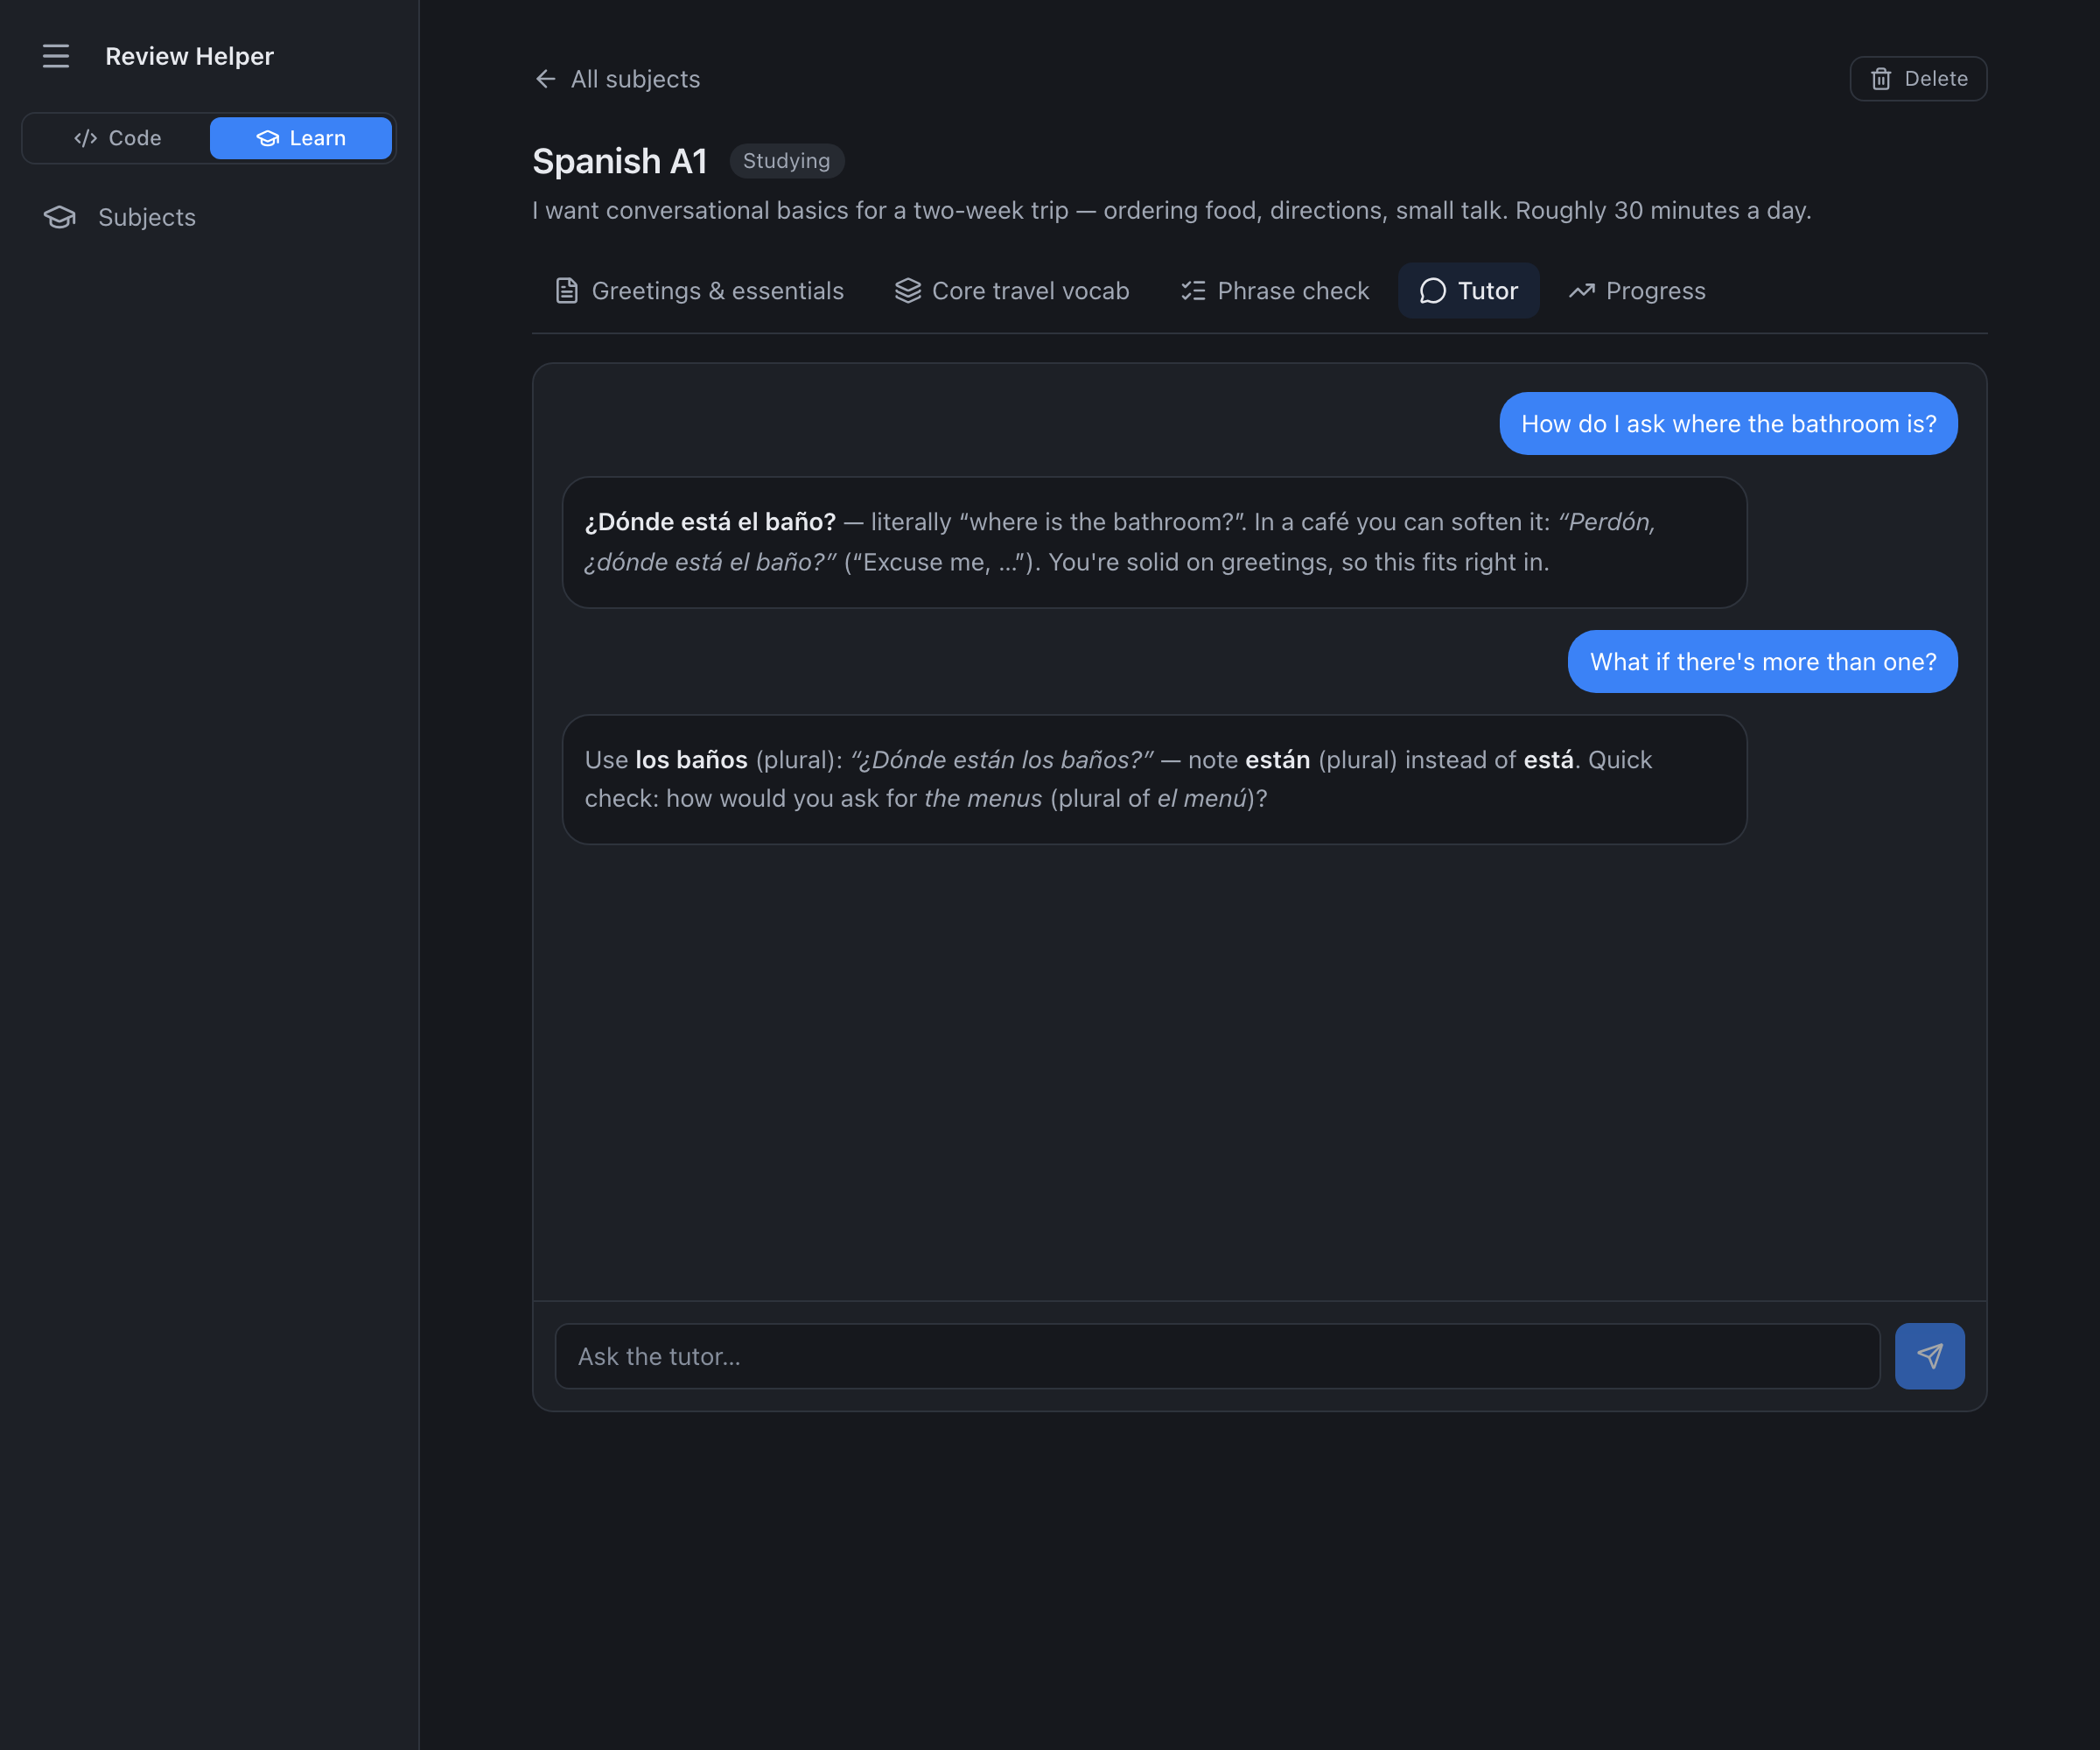
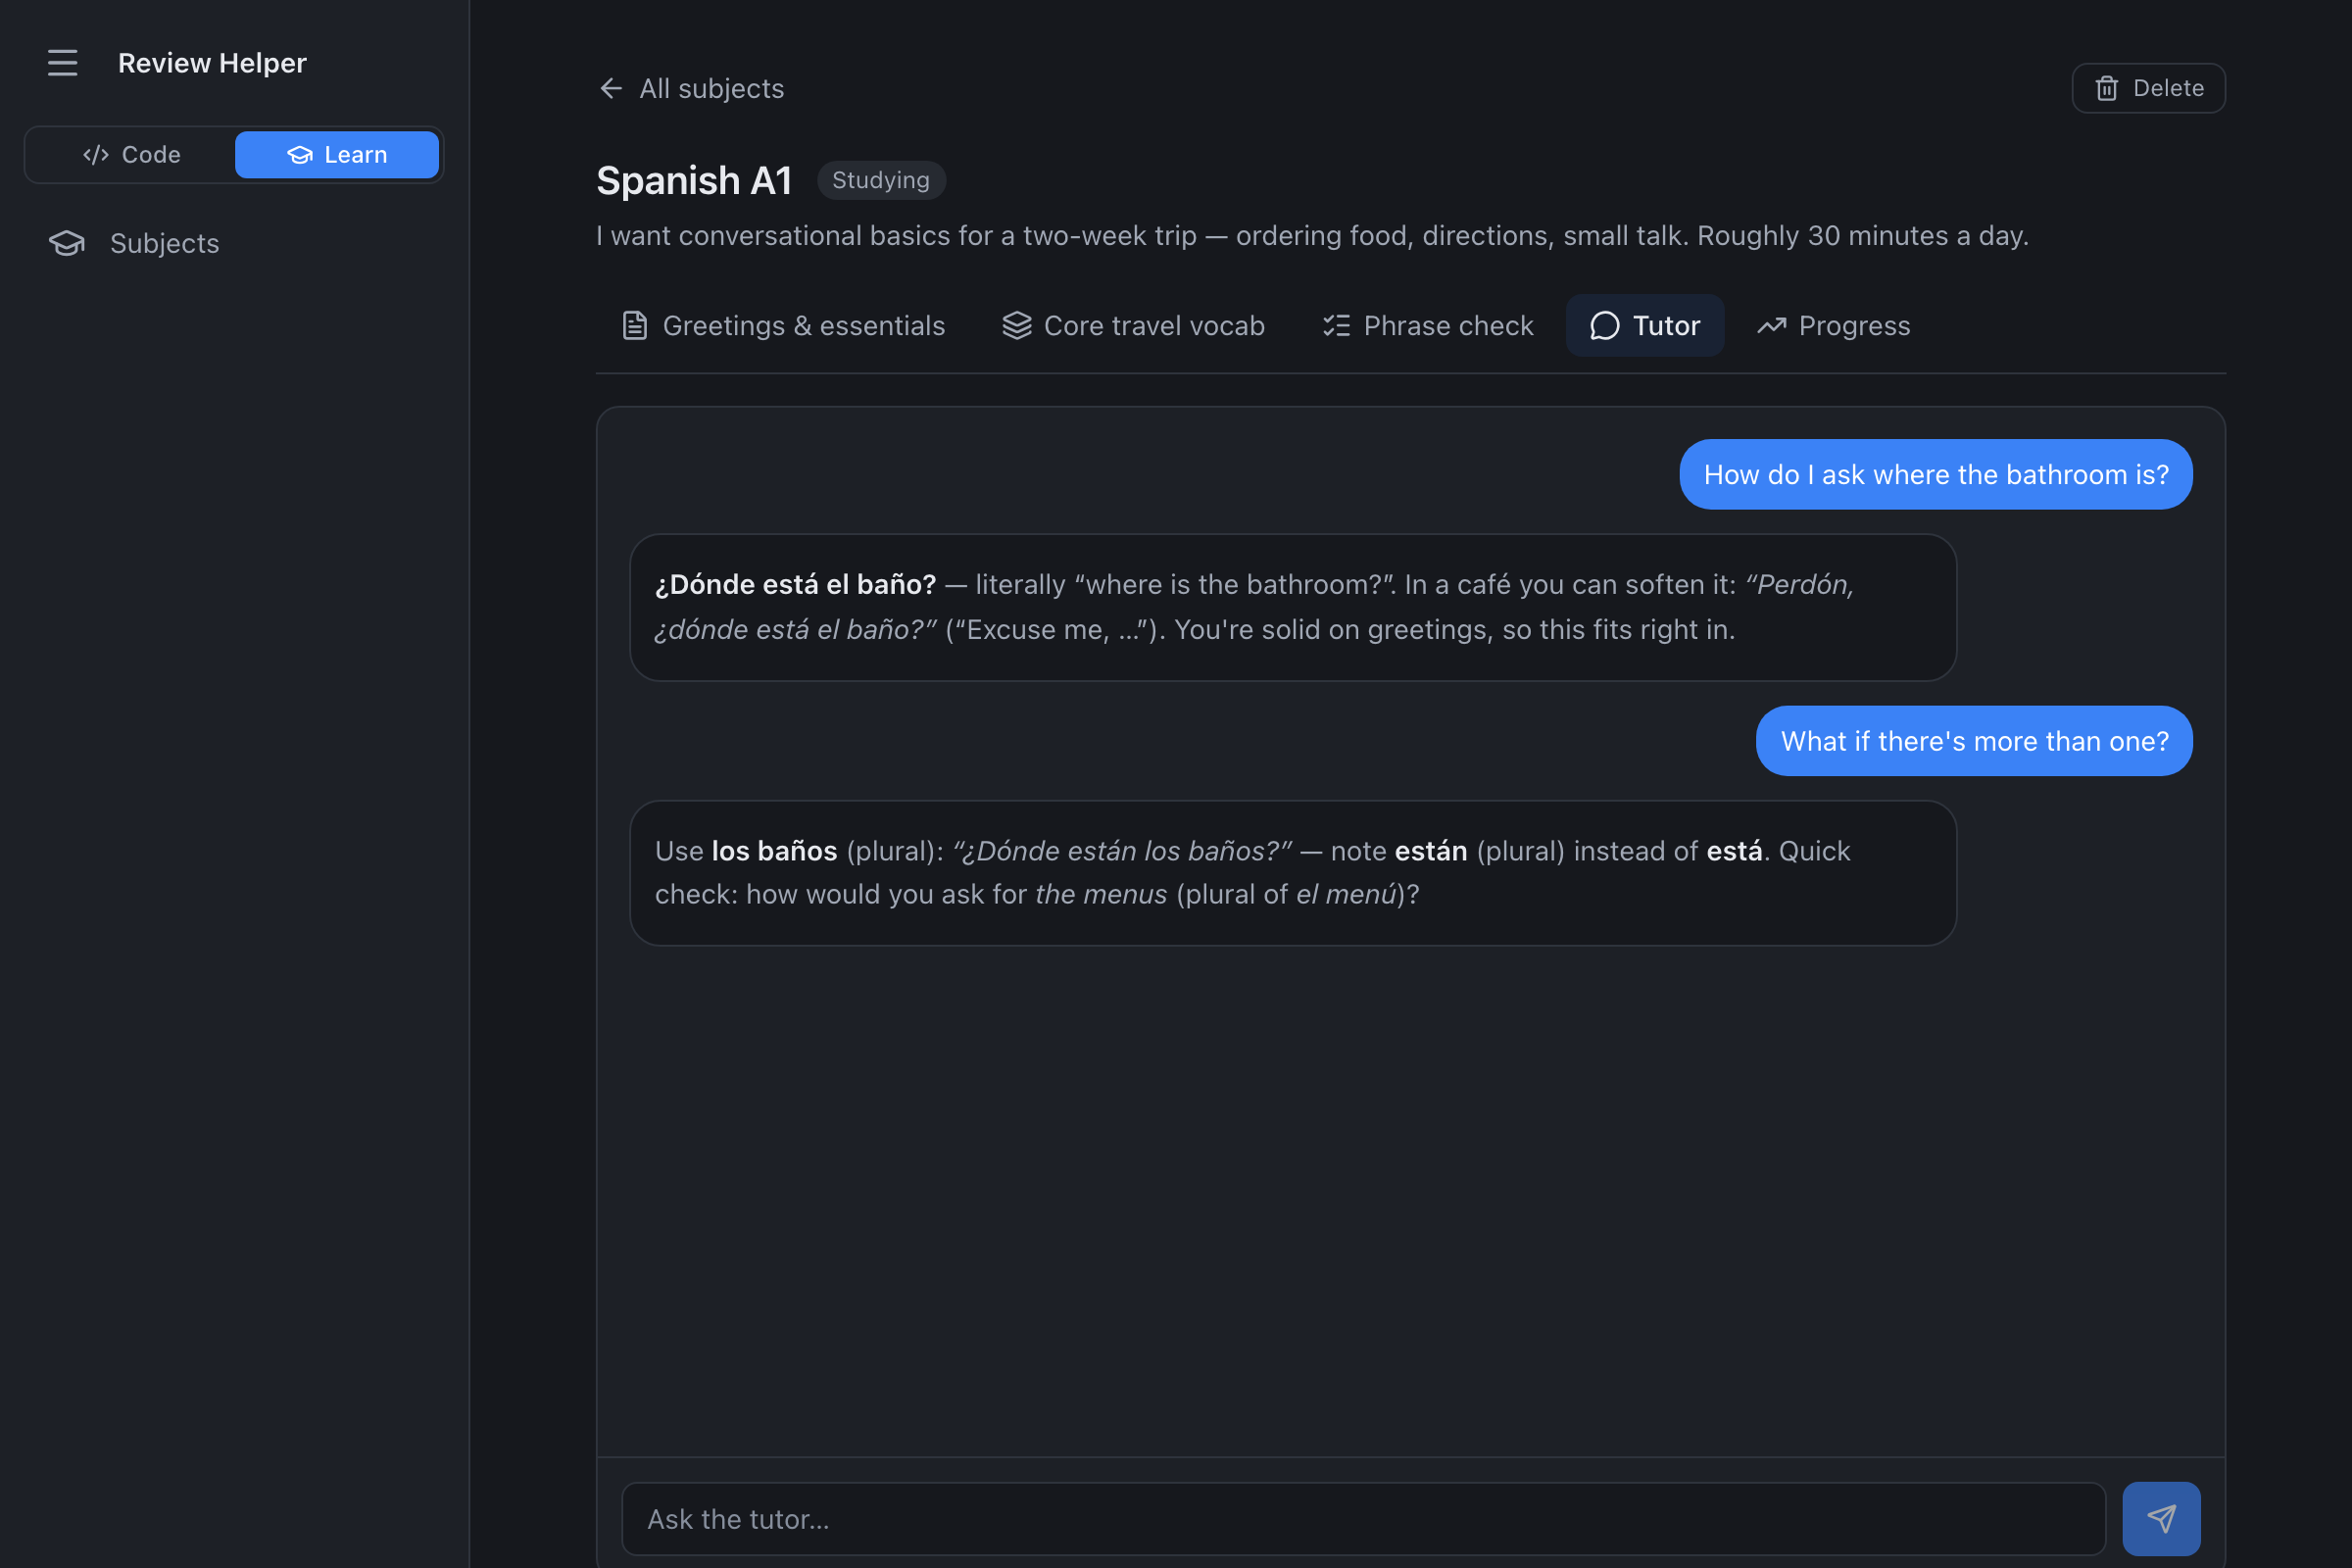
feat: docs-grounded grill mode + external links open in the browser
Grill gains a "Ground in docs" toggle (a nod to Matt Pocock's
grill-with-docs skill): the model reads the official documentation for
the project's declared stack before writing questions, at least half
must be grounded in something specific it found, and each grounded
question carries a doc_ref URL (migration v10) rendered as a 📚 chip
that opens in the system browser. Which also closes audit finding A33
properly: every markdown anchor and the new chips route through one
openExternal() helper (tauri-plugin-opener) instead of navigating the
webview. Learning screenshot normalized to 2400x1600 like the rest.

diff --git a/src/components/GrillPane.tsx b/src/components/GrillPane.tsx
@@ -1,4 +1,4 @@
-import { useEffect, type ReactNode } from "react";
+import { useEffect, useState, type ReactNode } from "react";
 import { Loader2, MessageSquareQuote, AlertTriangle, Sparkles } from "lucide-react";
 import { useGrillStore, ensureGrillListener, computeCoverage } from "../store/grillStore";
 import { QuestionCard } from "./QuestionCard";
@@ -35,6 +35,7 @@ export function GrillPane({ project }: { project: Project }) {
   const load = useGrillStore((s) => s.load);
   const generate = useGrillStore((s) => s.generate);
   const depth = useGrillStore((s) => s.depth[id] ?? DEFAULT_DEPTH);
+  const [withDocs, setWithDocs] = useState(false);
 
   useEffect(() => {
     ensureGrillListener();
@@ -64,7 +65,7 @@ export function GrillPane({ project }: { project: Project }) {
         <p className="max-w-sm text-sm text-danger" role="alert">
           {error ?? "Grilling failed."}
         </p>
-        <GenerateButton onClick={() => void generate(id, depth)} label="Try again" />
+        <GenerateButton onClick={() => void generate(id, depth, withDocs)} label="Try again" />
       </Center>
     );
   }
@@ -87,7 +88,7 @@ export function GrillPane({ project }: { project: Project }) {
           pin down what you're building.
         </p>
         <DepthSlider projectId={id} />
-        <GenerateButton onClick={() => void generate(id, depth)} label="Start grilling" />
+        <GenerateButton onClick={() => void generate(id, depth, withDocs)} label="Start grilling" />
       </Center>
     );
   }
@@ -103,9 +104,13 @@ export function GrillPane({ project }: { project: Project }) {
 
       <div className="flex items-center justify-between gap-3">
         <DepthSlider projectId={id} />
+        <label className="flex items-center gap-1.5 text-xs text-fg-muted" title="Read the official docs for your stack first; grounded questions cite their source (slower — inspired by Matt Pocock's grill-with-docs)">
+          <input type="checkbox" checked={withDocs} onChange={(e) => setWithDocs(e.target.checked)} aria-label="Ground in official docs" />
+          Ground in docs
+        </label>
         <button
           type="button"
-          onClick={() => void generate(id, depth)}
+          onClick={() => void generate(id, depth, withDocs)}
           className="rounded-md border border-border px-3 py-1.5 text-xs text-fg-muted hover:bg-surface-2"
         >
           {cov.done ? "Go deeper" : "Ask more"}

diff --git a/src/components/MarkdownBlock.tsx b/src/components/MarkdownBlock.tsx
@@ -1,3 +1,4 @@
+import { openExternal } from "../lib/external";
 import ReactMarkdown, { type Components } from "react-markdown";
 import remarkGfm from "remark-gfm";
 
@@ -14,7 +15,17 @@ const COMPONENTS: Components = {
   li: (p) => <li className="leading-relaxed" {...p} />,
   strong: (p) => <strong className="font-semibold text-fg" {...p} />,
   em: (p) => <em className="italic" {...p} />,
-  a: (p) => <a className="text-accent hover:underline" {...p} />,
+  a: ({ href, ...p }) => (
+    <a
+      href={href}
+      className="text-accent hover:underline"
+      {...p}
+      onClick={(e) => {
+        e.preventDefault();
+        openExternal(href);
+      }}
+    />
+  ),
   code: (p) => <code className="rounded bg-surface-2 px-1 py-0.5 font-mono text-[0.85em] text-fg" {...p} />,
   pre: (p) => <pre className="my-2 overflow-auto rounded-md bg-surface-2 p-2 text-xs text-fg" {...p} />,
   blockquote: (p) => <blockquote className="my-2 border-l-2 border-border pl-3 text-fg-subtle" {...p} />,

diff --git a/src/components/QuestionCard.tsx b/src/components/QuestionCard.tsx
@@ -1,3 +1,4 @@
+import { openExternal } from "../lib/external";
 import { useState } from "react";
 import { Loader2, Check, X, HelpCircle, MessagesSquare, Trash2, type LucideIcon } from "lucide-react";
 import { useGrillStore } from "../store/grillStore";
@@ -45,6 +46,16 @@ export function QuestionCard({ projectId, question }: { projectId: number; quest
         {question.bank_topic && <span className="text-xs text-fg-subtle">{question.bank_topic}</span>}
       </div>
       <p className="text-sm font-medium text-fg">{question.text}</p>
+      {question.doc_ref && (
+        <button
+          type="button"
+          onClick={() => openExternal(question.doc_ref ?? undefined)}
+          className="mt-1 inline-flex w-fit items-center gap-1 rounded-full border border-border px-2 py-0.5 text-[11px] text-fg-muted hover:bg-surface-2 hover:text-fg"
+          title={question.doc_ref}
+        >
+          📚 grounded in docs
+        </button>
+      )}
       {question.recommended_answer && (
         <p className="mt-1.5 text-sm text-fg-muted">
           <span className="font-medium text-fg-subtle">Recommended:</span> {question.recommended_answer}{" "}

diff --git a/src/lib/external.ts b/src/lib/external.ts
@@ -1,0 +1,7 @@
+import { openUrl } from "@tauri-apps/plugin-opener";
+
+/** Open a link in the system browser — never let an in-app anchor replace the
+ *  whole webview (audit A33: LLM-generated markdown links navigated the app). */
+export function openExternal(url: string | undefined) {
+  if (url && /^https?:\/\//i.test(url)) void openUrl(url).catch(() => {});
+}

diff --git a/src/api/grill.ts b/src/api/grill.ts
@@ -18,6 +18,8 @@ export interface Question {
   recommended_answer: string | null;
   ui_spec?: UiSpec | null;
   status: string;
+  /** Docs-grounded mode: the official-doc URL this question cites. */
+  doc_ref?: string | null;
 }
 
 export type GrillEvent =
@@ -27,8 +29,8 @@ export type GrillEvent =
   | { type: "failed"; project_id: number; detail: string };
 
 /** Generate a batch of repo-specific questions, scaled by depth (1–5). */
-export function grillGenerate(id: number, depth: number): Promise<void> {
-  return invoke("grill_generate", { projectId: id, depth });
+export function grillGenerate(id: number, depth: number, withDocs = false): Promise<void> {
+  return invoke("grill_generate", { projectId: id, depth, withDocs });
 }
 
 export function grillList(id: number): Promise<Question[]> {

diff --git a/src/store/grillStore.ts b/src/store/grillStore.ts
@@ -20,7 +20,7 @@ interface GrillStore {
   error: Record<number, string | null>;
   depth: Record<number, number>;
   load: (id: number) => Promise<void>;
-  generate: (id: number, depth: number) => Promise<void>;
+  generate: (id: number, depth: number, withDocs?: boolean) => Promise<void>;
   setDepth: (id: number, depth: number) => void;
   // Per-card actions: mutate then reload so the card moves to addressed. They
   // throw on failure so the card can show a local error (no pane-wide error).
@@ -47,7 +47,7 @@ export const useGrillStore = create<GrillStore>((set, get) => ({
     }
   },
 
-  generate: async (id, depth) => {
+  generate: async (id, depth, withDocs = false) => {
     if (get().status[id] === "running") return; // don't double-spend a run
     set((s) => ({
       status: { ...s.status, [id]: "running" },
@@ -55,7 +55,7 @@ export const useGrillStore = create<GrillStore>((set, get) => ({
       error: { ...s.error, [id]: null },
     }));
     try {
-      await grillGenerate(id, depth);
+      await grillGenerate(id, depth, withDocs);
     } catch (e) {
       set((s) => ({ status: { ...s.status, [id]: "error" }, error: { ...s.error, [id]: String(e) } }));
     }

diff --git a/src/test/grill.test.tsx b/src/test/grill.test.tsx
@@ -127,6 +127,6 @@ describe("depth slider", () => {
     await screen.findByText(/Detail coverage/i);
     fireEvent.change(screen.getByLabelText("Grill depth"), { target: { value: "5" } });
     await user.click(screen.getByRole("button", { name: /Ask more|Go deeper/i }));
-    expect(vi.mocked(grillGenerate)).toHaveBeenCalledWith(202, 5);
+    expect(vi.mocked(grillGenerate)).toHaveBeenCalledWith(202, 5, false);
   });
 });

diff --git a/src-tauri/src/db.rs b/src-tauri/src/db.rs
@@ -80,6 +80,9 @@ pub fn run_migrations(conn: &Connection) -> rusqlite::Result<()> {
     if version < 9 {
         migration_step(conn, 9, migrate_v9)?;
     }
+    if version < 10 {
+        migration_step(conn, 10, migrate_v10)?;
+    }
     Ok(())
 }
 
@@ -320,6 +323,12 @@ fn migrate_v9(conn: &Connection) -> rusqlite::Result<()> {
     )
 }
 
+/// v10 (docs-grounded grill): a grill question may cite the official doc it
+/// was grounded in.
+fn migrate_v10(conn: &Connection) -> rusqlite::Result<()> {
+    conn.execute_batch("ALTER TABLE questions ADD COLUMN doc_ref TEXT;")
+}
+
 /// Run one migration step atomically: the schema change and the version bump
 /// commit together, so a crash mid-step rolls back to a cleanly re-runnable
 /// state instead of stranding a half-applied version.
@@ -414,7 +423,7 @@ mod tests {
         let version: i64 = conn
             .query_row("PRAGMA user_version", [], |r| r.get(0))
             .unwrap();
-        assert_eq!(version, 9);
+        assert_eq!(version, 10);
     }
 
     #[test]
@@ -452,7 +461,7 @@ mod tests {
         conn.execute_batch("CREATE TABLE projects (id INTEGER PRIMARY KEY, name TEXT);").unwrap();
         run_migrations(&conn).expect("a partial base schema must not brick the app");
         let v: i64 = conn.query_row("PRAGMA user_version", [], |r| r.get(0)).unwrap();
-        assert!(v >= 9);
+        assert!(v >= 10);
         // The real schema replaced the partial table (kind column exists).
         conn.execute("INSERT INTO projects (name, kind) VALUES ('ok','new')", []).unwrap();
     }

diff --git a/src-tauri/src/grill/mod.rs b/src-tauri/src/grill/mod.rs
@@ -22,6 +22,7 @@ pub struct Question {
     pub recommended_answer: Option<String>,
     pub ui_spec: Option<Value>,
     pub status: String,
+    pub doc_ref: Option<String>,
 }
 
 /// Persist a generated batch as open questions, atomically. Returns the count
@@ -32,8 +33,8 @@ pub fn save_questions(conn: &mut Connection, project_id: i64, qs: &[GenQuestion]
     for q in qs {
         let ui_spec = q.ui_spec.as_ref().and_then(|s| serde_json::to_string(s).ok());
         tx.execute(
-            "INSERT INTO questions (project_id, dimension, bank_topic, text, recommended_answer, ui_spec, status) \
-             VALUES (?1, ?2, ?3, ?4, ?5, ?6, 'open')",
+            "INSERT INTO questions (project_id, dimension, bank_topic, text, recommended_answer, ui_spec, doc_ref, status) \
+             VALUES (?1, ?2, ?3, ?4, ?5, ?6, ?7, 'open')",
             params![
                 project_id,
                 q.dimension.trim(),
@@ -41,6 +42,7 @@ pub fn save_questions(conn: &mut Connection, project_id: i64, qs: &[GenQuestion]
                 q.question.trim(),
                 q.recommended_answer.trim(),
                 ui_spec,
+                q.doc_ref,
             ],
         )
         .map_err(|e| e.to_string())?;
@@ -54,7 +56,7 @@ pub fn save_questions(conn: &mut Connection, project_id: i64, qs: &[GenQuestion]
 pub fn list_questions(conn: &Connection, project_id: i64) -> Result<Vec<Question>, String> {
     let mut stmt = conn
         .prepare(
-            "SELECT id, dimension, bank_topic, text, recommended_answer, ui_spec, status FROM questions \
+            "SELECT id, dimension, bank_topic, text, recommended_answer, ui_spec, doc_ref, status FROM questions \
              WHERE project_id = ?1 AND status != 'deleted' ORDER BY id",
         )
         .map_err(|e| e.to_string())?;
@@ -66,7 +68,8 @@ pub fn list_questions(conn: &Connection, project_id: i64) -> Result<Vec<Question
             text: r.get(3)?,
             recommended_answer: r.get(4)?,
             ui_spec: r.get::<_, Option<String>>(5)?.and_then(|s| serde_json::from_str(&s).ok()),
-            status: r.get(6)?,
+            doc_ref: r.get(6)?,
+            status: r.get(7)?,
         })
     })
     .and_then(Iterator::collect)
@@ -159,6 +162,7 @@ mod tests {
             bank_topic: topic.into(),
             question: q.into(),
             recommended_answer: a.into(),
+            doc_ref: None,
             ui_spec: None,
         }
     }

diff --git a/src-tauri/src/grill/commands.rs b/src-tauri/src/grill/commands.rs
@@ -36,6 +36,7 @@ pub fn grill_generate(
     db: State<'_, Db>,
     project_id: i64,
     depth: i64,
+    with_docs: Option<bool>,
 ) -> Result<(), String> {
     // Validate the project exists before spawning; everything heavy is off-thread.
     {
@@ -45,13 +46,13 @@ pub fn grill_generate(
     let app = app.clone();
     let report = app.clone();
     crate::util::spawn_guarded(
-        move || run_grill(app, project_id, depth.clamp(1, 5)),
+        move || run_grill(app, project_id, depth.clamp(1, 5), with_docs.unwrap_or(false)),
         move || { let _ = report.emit("grill-event", &GrillEvent::Failed { project_id, detail: "Grilling crashed unexpectedly.".into() }); },
     );
     Ok(())
 }
 
-fn run_grill(app: AppHandle, project_id: i64, depth: i64) {
+fn run_grill(app: AppHandle, project_id: i64, depth: i64, with_docs: bool) {
     let emit = |ev: GrillEvent| {
         let _ = app.emit("grill-event", &ev);
     };
@@ -100,7 +101,11 @@ fn run_grill(app: AppHandle, project_id: i64, depth: i64) {
     };
 
     let mut req = ModelRequest::planning(grill_user(&topics));
-    req.system_append = Some(format!("{GRILL_SYSTEM}\n\n{context}"));
+    req.system_append = Some(if with_docs {
+        format!("{GRILL_SYSTEM}\n\n{}\n\n{context}", super::generate::GRILL_DOCS_ADDENDUM)
+    } else {
+        format!("{GRILL_SYSTEM}\n\n{context}")
+    });
     if let Some(cp) = clone_path {
         req.cwd = Some(cp);
     }

diff --git a/src-tauri/src/grill/generate.rs b/src-tauri/src/grill/generate.rs
@@ -12,6 +12,11 @@ use crate::plan::parse::{extract_json, flexible_string};
 
 const BANK_JSON: &str = include_str!("bank.json");
 
+/// Appended in docs-grounded mode (inspired by Matt Pocock's grill-with-docs
+/// skill): read the official docs first, then interrogate the plan against
+/// what they actually say — and cite them.
+pub const GRILL_DOCS_ADDENDUM: &str = r#"DOCS-GROUNDED MODE: before writing any question, use WebSearch/WebFetch to read the OFFICIAL documentation for this project's declared stack and key dependencies (the real docs sites — not blogs). Ground at least half the questions in something specific you found there: a version requirement, a security note, a recommended pattern, a deprecation, a default the builder probably didn't know. For EACH docs-grounded question add "doc_ref": the exact URL you read. Questions not grounded in a doc omit doc_ref. Never invent a URL — only cite pages you actually fetched."#;
+
 pub const GRILL_SYSTEM: &str = r#"You are Review Helper's interviewer. You ask the builder sharp, repo-specific questions that pin down what they're building — covering product AND build concerns. Explore the repository read-only in your working directory and use the PROJECT CONTEXT so every question is specific to THIS project (reference real files, the plan, the chosen stack). Never edit, write, or delete files, and never run shell commands.
 
 You are given a list of TOPICS, each with a dimension and a focus hint. For EACH topic, write:
@@ -98,6 +103,9 @@ pub struct GenQuestion {
     pub recommended_answer: String,
     #[serde(default)]
     pub ui_spec: Option<UiSpec>,
+    /// Docs-grounded mode: the official-doc URL this question is grounded in.
+    #[serde(default)]
+    pub doc_ref: Option<String>,
 }
 
 #[derive(Debug, Deserialize)]

diff --git a/README.md b/README.md
@@ -61,7 +61,7 @@ flowchart LR
 ```
 
 - **Assess** scores six vibecoding dimensions plus production readiness, grounded in repo metrics rather than vibes.
-- **Grill** asks repo-specific questions, each with a recommended answer and a model-chosen input type; a coverage meter tracks how specified you are.
+- **Grill** asks repo-specific questions, each with a recommended answer and a model-chosen input type; a coverage meter tracks how specified you are. A **docs-grounded mode** (a nod to Matt Pocock's grill-with-docs skill) has the model read your stack's official documentation first — grounded questions carry a 📚 chip linking the exact page they came from.
 - **Chat** has persistent cross-chat memory; inferred decisions, features, and stack choices arrive as suggestions you approve singly or in bulk.
 - **Plan → GitHub** pushes one issue per phase (stable markers, so re-pushes update instead of duplicating). Issue closes and file deletions happen only behind an exact, confirmed preview that is cryptographically bound to the project it was computed for.
 - **Voice capture**: dictate inbox ideas to an on-device Whisper model (`large-v3-turbo`, Metal) — live partial transcripts while you speak, ~3× realtime on an M4, nothing uploaded.